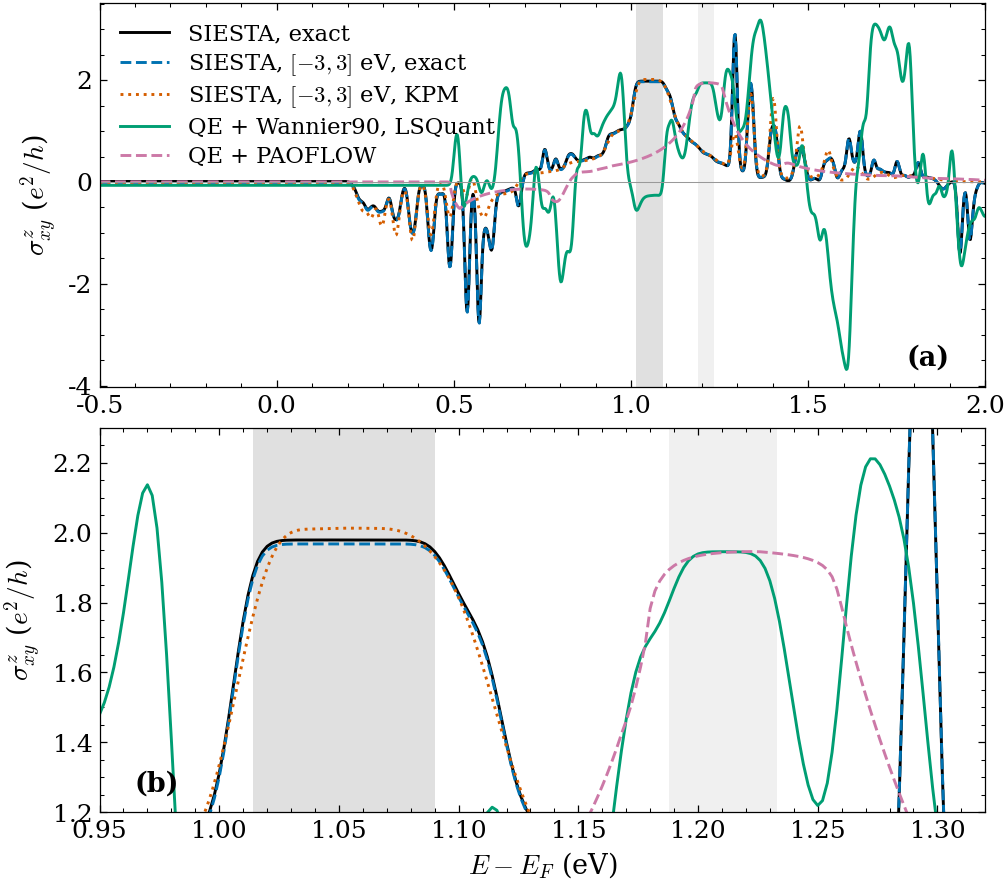
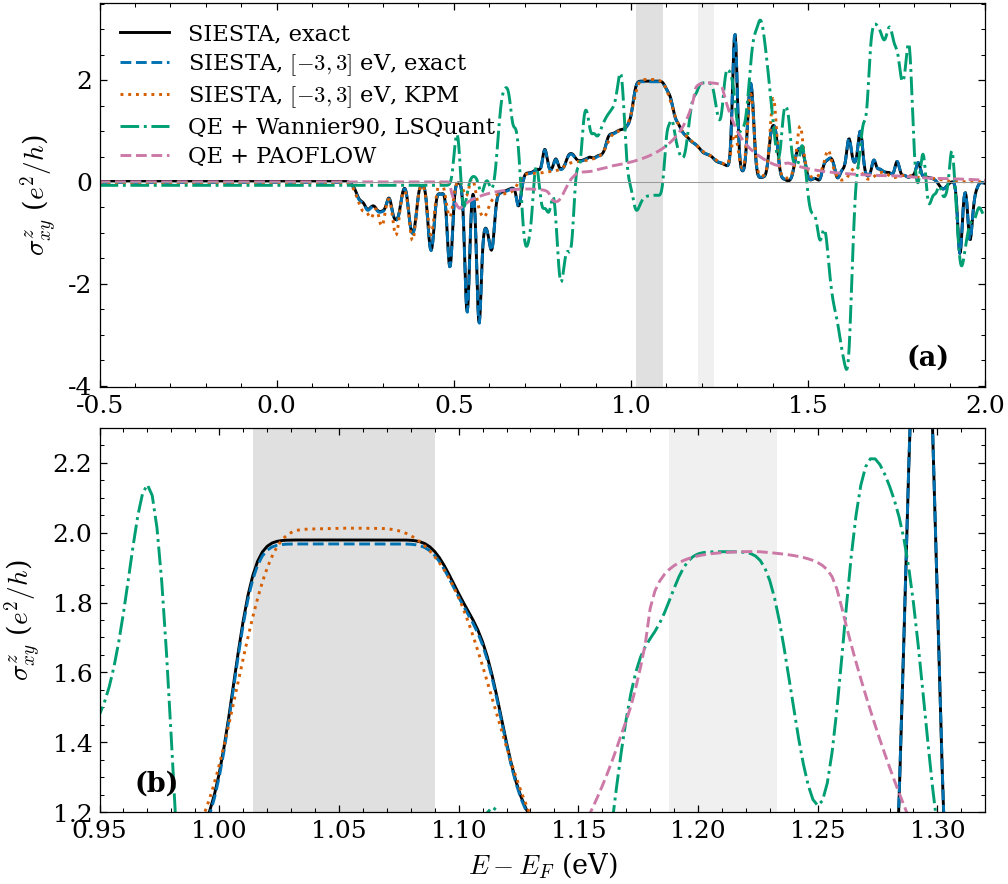
Examples 20: review fixes (PAOFLOW units sourced, caption, line styles, exact rows, wording)
Claude-Session: https://claude.ai/code/session_01HQCNXvhvRGsiz19SM8ZrLB

diff --git a/examples/20_pdse2_spin_hall_routes/plot.py b/examples/20_pdse2_spin_hall_routes/plot.py
@@ -29,7 +29,7 @@ ROUTES = [  # file, label, gap used for the plateau, trace index, line style
     ("siesta_direct_exact.dat", "SIESTA, exact", GAP_SIESTA, 0, "-"),
     ("siesta_projected_exact.dat", "SIESTA, $[-3,3]$ eV, exact", GAP_SIESTA, 1, "--"),
     ("siesta_projected_kpm.dat", "SIESTA, $[-3,3]$ eV, KPM", GAP_SIESTA, 2, ":"),
-    ("wannier_covariant_spn.dat", "QE + Wannier90, LSQuant", GAP_QE, 3, "-"),
+    ("wannier_covariant_spn.dat", "QE + Wannier90, LSQuant", GAP_QE, 3, "-."),
     ("paoflow.dat", "QE + PAOFLOW", GAP_QE, 4, "--"),
 ]
 

diff --git a/examples/20_pdse2_spin_hall_routes/README.md b/examples/20_pdse2_spin_hall_routes/README.md
@@ -30,12 +30,13 @@ units of $\hbar/2$.
 |---|---|---|
 | Functional | PBE, fully relativistic | PBE, fully relativistic |
 | Pseudopotentials | PSML (`siesta/` of example 8) | PAW, pslibrary 1.0.0: `Pd.rel-pbe-n-kjpaw_psl.1.0.0.UPF`, `Se.rel-pbe-dn-kjpaw_psl.1.0.0.UPF` |
-| Basis | DZP numerical orbitals, 220 spinor orbitals per cell | plane waves, 80 Ry (800 Ry density) |
+| Basis | DZP numerical orbitals, 220 spinor orbitals per cell | plane waves, 80 Ry (800 Ry for the charge density) |
 | Self-consistent k mesh | $12 \times 12 \times 1$ | $4 \times 4 \times 1$ |
 | Cell | $a = 5.750$ Å, $b = 5.920$ Å, 16.45 Å along $z$ | same |
 
-The geometry is that of wannier2sparse example 05. In the Quantum ESPRESSO
-inputs the slab is centred at $z = 0$: a slab at $z = c/2$ puts the Wannier
+The geometry is that of
+[wannier2sparse](https://github.com/adamecius/wannier2sparse) example 05. In
+the Quantum ESPRESSO inputs the slab is centred at $z = 0$: a slab at $z = c/2$ puts the Wannier
 functions across the boundary of the cell along $z$, and Wannier90 then returns
 spreads of about 100 Å$^2$.
 <!-- source: qe/scf.in; ../08_spin_hall_pdse2_monolayer/siesta/pdse2.fdf -->
@@ -46,7 +47,8 @@ mesh with 96 bands, an outer window from −3.5 to 3.0 eV and a frozen window fr
 −2.8 to 1.0 eV (absolute energies; $E_F = -1.316$ eV), with 1000
 disentanglement and 400 localisation iterations. The final spreads are
 12.6 Å$^2$ for the Pd functions, centred on the Pd atoms, and 10.9 Å$^2$ for
-the Se functions, centred near the middle of the Se–Se dimers. Kramers pairs of the model stay degenerate to 1.4 meV.
+the Se functions, centred near the middle of the Se–Se dimers. Kramers
+pairs of the model stay degenerate to 1.4 meV.
 <!-- source: qe/pdse2_proj.win; Wannier90 .wout of the run -->
 
 ## The routes
@@ -56,12 +58,16 @@ diagonalises $H(\mathbf k)$ and $S(\mathbf k)$ on a $24 \times 24$ mesh and
 evaluates the word `Tr[JXSZ delta(E-H) VY dG-(E)/dE]` with an exact trace,
 the `covariant` velocity and the `lowdin` metric. With `oracle = true` it also
 writes the exact occupied-band sum, `exact_shc.json`, with a 6 meV Gaussian.
+The rows marked "exact" in the table and in FIG. 1 are these occupied-band sums. The run also writes a KPM
+curve with 64 moments, which we do not use; the moment count is kept low
+because this run serves only the exact sum.
 
 **SIESTA, $[-3, 3]$ eV.** [`run_siesta_projected.json`](run_siesta_projected.json)
 adds `"projection": {"kind": "shift", "window": [-3, 3]}`: the states outside the
 window are moved to its nearest edge, so the expansion covers 6 eV instead of
-the full spectrum. It writes the KPM curve with 1024 moments and the exact
-result for the same projected states.
+the full spectrum. It writes the KPM curve with 1024 moments (Jackson kernel)
+and, as `word_0_oracle.json`, the exact occupied-band sum of the same projected
+states with a 6 meV Gaussian.
 
 **Wannier90 and LSQuant.** [`wannier_route.py`](wannier_route.py) reads the
 Wannier90 output and computes $\sigma^z_{xy}(E)$ on a $300 \times 300$ mesh with a
@@ -83,16 +89,26 @@ operator, and it gives a different plateau (see the result).
 **PAOFLOW.** [`paoflow/run_pao.py`](paoflow/run_pao.py) projects the Quantum
 ESPRESSO bands on the pseudo-atomic orbitals (92 bands above a projectability of
 0.90), interpolates on a $120 \times 120$ mesh and calls
-`spin_Hall(twoD=True, delta=0.006)` after `adaptive_smearing()`. We multiply its output by
-$4\pi$ to express it in $e^2/h$ with the Pauli $\sigma_z$.
+`spin_Hall(twoD=True, delta=0.006)` after `adaptive_smearing()`. PAOFLOW gives
+$\sigma^z_{xy}$ in units of $e^2/\hbar$ with the spin operator $\sigma_z/2$; the
+factor $4\pi$, $2\pi$ from $e^2/\hbar$ to $e^2/h$ and 2 from $\sigma_z/2$ to
+$\sigma_z$, converts it to $e^2/h$ with the Pauli $\sigma_z$.
+<!-- source: PAOFLOW 3.0.0, PAOFLOW.py:1476 (spin operator sP = 0.5 * Pauli);
+response/do_Hall.py:77 (spin current 0.5*(Sj dHk + dHk Sj)), :447 (Omega_n =
+-2 Im sum j_nm v_mn / dE^2, energies in eV, so Omega in bohr^2), :486 (sum over
+k divided by N_k), :96 (twoD: divided by the cell area in bohr^2, no other
+factor). The result is (1/(N_k A)) sum f Omega, i.e. sigma in units of e^2/hbar,
+since int d^2k/(2pi)^2 = 1/(N_k A). LSQuant: sigma = 2pi/(N_k A) sum f Omega with
+Pauli sigma_z, in e^2/h (docs/explanation/kubo-formulas.md). Ratio: 2pi * 2 = 4pi.
+The 3D branch, :98, applies e^2/hbar in SI and 1/omega, the same convention. -->
 
 ## The run
 
 The density-functional steps are the slow part. The figure and the table below
 are made from the curves in [`data/`](data/), so Step 4 runs without them.
 
-**Step 1: Quantum ESPRESSO and Wannier90.** Put the two pseudopotentials in
-`pseudo/`, next to `qe/`, as `Pd.UPF` and `Se.UPF`, then in `qe/`:
+**Step 1: Quantum ESPRESSO and Wannier90.** We put the two pseudopotentials in
+`pseudo/`, next to `qe/`, as `Pd.UPF` and `Se.UPF`, and run in `qe/`:
 
 ```bash
 mpirun -np 32 pw.x -nk 8 -in scf.in  > scf.out
@@ -102,7 +118,7 @@ mpirun -np 16 pw2wannier90.x -in pw2wan_spn.in > pw2wan_spn.out
 wannier90.x pdse2_proj
 ```
 
-**Step 2: the LSQuant routes.** From the repository root:
+**Step 2: the LSQuant routes.** We run from the repository root:
 
 ```bash
 python examples/20_pdse2_spin_hall_routes/wannier_route.py \
@@ -116,8 +132,8 @@ python -m lsquant run examples/20_pdse2_spin_hall_routes/run_siesta_projected.js
 centres) into the Wannier90 directory, then `wannier_covariant_spn.dat` and a
 `.json` with the gaps, $Z_2$ and the operator comparison.
 
-**Step 3: PAOFLOW.** Copy the directory `tmp/` written by the self-consistent
-run of Step 1 to `paoflow/tmp/`, then in `paoflow/`:
+**Step 3: PAOFLOW.** We copy the directory `tmp/` written by the
+self-consistent run of Step 1 to `paoflow/tmp/` and run in `paoflow/`:
 
 ```bash
 mpirun -np 32 pw.x -nk 8 -in nscf_pao.in > nscf_pao.out
@@ -125,7 +141,7 @@ projwfc.x -in projwfc.in > projwfc.out
 python run_pao.py
 ```
 
-**Step 4: the figure.**
+**Step 4: the figure.** We plot the curves of `data/`:
 
 ```bash
 python examples/20_pdse2_spin_hall_routes/plot.py
@@ -137,9 +153,16 @@ python examples/20_pdse2_spin_hall_routes/plot.py
 
 **FIG. 1.** $\sigma^z_{xy}(E)$ of pentagonal $\mathrm{PdSe_2}$, in $e^2/h$ with
 Pauli $\sigma_z$. (a) From $E_F - 0.5$ eV to $E_F + 2$ eV. (b) The two
-quantum spin Hall gaps. Dark grey: gap of the SIESTA electronic structure;
-light grey: gap of the Quantum ESPRESSO one, as reproduced by the Wannier90
-model.
+quantum spin Hall gaps. Black solid line: SIESTA, all states, exact
+occupied-band sum on a $24 \times 24$ mesh with a 6 meV Gaussian. Blue dashed
+line: SIESTA, states in $[-3, 3]$ eV, exact sum, same mesh and Gaussian.
+Orange dotted line: the same projected states, KPM with $M = 1024$ moments, the
+Jackson kernel and an exact trace. Green dash-dotted line: Quantum ESPRESSO
+bands, Wannier90 model, covariant velocity and spin projected from DFT,
+$300 \times 300$ mesh, 6 meV Gaussian. Pink dashed line: the same Quantum
+ESPRESSO bands, PAOFLOW 3.0, $120 \times 120$ mesh, adaptive smearing. Dark
+grey band: gap of the SIESTA electronic structure; light grey band: gap of the
+Quantum ESPRESSO one, as reproduced by the Wannier90 model.
 
 | Route | Gap with $Z_2 = 1$, $E - E_F$ (eV) | Plateau ($e^2/h$) | At $E_F$ ($e^2/h$) |
 |---|---|---|---|
@@ -169,10 +192,13 @@ this example does not separate those effects.
 Outside the gaps the curves differ. The band structures of the two codes are
 not the same, and the four routes use different k meshes and broadenings
 ($24 \times 24$ with a 6 meV Gaussian, $300 \times 300$ with a 6 meV Gaussian,
-$120 \times 120$ with adaptive smearing in PAOFLOW). We have not converged the curves in
-the bands, and the example compares only the plateaus.
+$120 \times 120$ with adaptive smearing in PAOFLOW). The Wannier90 model
+contains only the 12 bands of its windows and reproduces the DFT bands inside
+its frozen window, −1.5 to +2.3 eV around $E_F$; the Fermi-sea sum of the other
+routes also runs over all lower bands. We have not converged the curves in the
+bands, and the example compares only the plateaus.
 
-**The spin operator decides the Wannier90 plateau.** For the Wannier90 model,
+**The spin operator and the Wannier90 plateau.** For the Wannier90 model,
 `--compare-operators` evaluates the centre of the upper gap with three
 velocities and two spin operators:
 
@@ -184,13 +210,13 @@ velocities and two spin operators:
 
 With the projected spin, the covariant and Berry-connection velocities agree to
 0.1%, and both agree with PAOFLOW; the bare velocity is 6% lower. With the
-diagonal $\sigma_z$, every velocity gives about 1.5–1.6 $e^2/h$, 20% below the
-other routes.
+diagonal $\sigma_z$, the three velocities give 1.51 to 1.58 $e^2/h$; for the
+covariant velocity, 1.577 against 1.946 $e^2/h$ is 19% lower.
 <!-- source: data/wannier_covariant_spn.json, key operators_at_upper_gap -->
 
 The same inputs with the $4 \times 4$ non-self-consistent mesh and 10 + 10
-iterations of wannier2sparse example 05 give a Wannier90 model without a global
-gap near 1.2 eV (bands overlap by 13 meV) and with Kramers splittings up to
+iterations of [wannier2sparse](https://github.com/adamecius/wannier2sparse)
+example 05 give a Wannier90 model without a global gap near 1.2 eV (bands overlap by 13 meV) and with Kramers splittings up to
 24 meV. The denser mesh and the longer minimisation above remove both.
 
 ## Runtime
